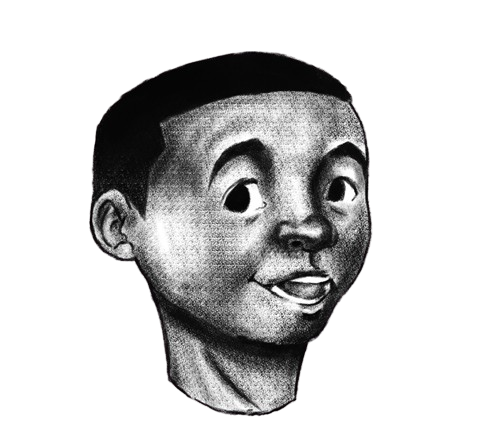
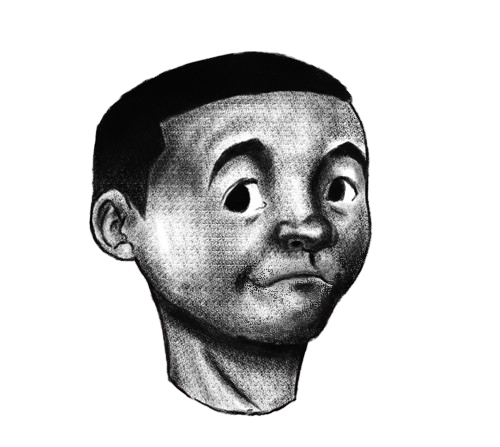
sa

Changed region(s): [[0.45, 0.5817, 0.72, 0.7852], [0.72, 0.5526, 0.75, 0.5817]]

diff --git a/spriteanimator.js b/spriteanimator.js
@@ -34,7 +34,7 @@ stop(){
 }
 
 
-const animationFrames = ["assets/frame0000-Photoroom.png", "assets/frame0001-removebg-preview.png"]
+const animationFrames = ["assets/frame0000-removebg-preview.png","assets/frame0001-removebg-preview.png", "assets/frame0002-removebg-preview.png"]
 const imgElement = document.getElementById("Drawing")
-const animator = new SpriteAnimator(imgElement, animationFrames, 1300, true)
+const animator = new SpriteAnimator(imgElement, animationFrames, 600, true)
 animator.play()
